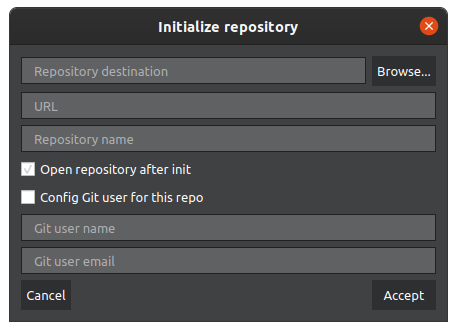
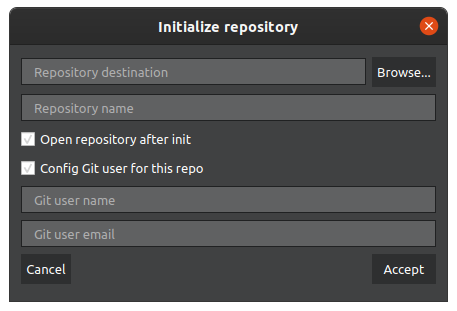
#49 Updating quick control actions

diff --git a/src/aux_widgets/CreateRepoDlg.cpp b/src/aux_widgets/CreateRepoDlg.cpp
@@ -18,6 +18,9 @@ CreateRepoDlg::CreateRepoDlg(CreateRepoDlgType type, QSharedPointer<GitConfig> g
 
    ui->setupUi(this);
 
+   if (mType == CreateRepoDlgType::INIT)
+      ui->leURL->setHidden(true);
+
    const auto operation = mType == CreateRepoDlgType::INIT ? QString("init") : QString("clone");
    const auto checkText = ui->chbOpen->text().arg(operation);
    ui->chbOpen->setText(checkText);

diff --git a/docs/index.md b/docs/index.md
@@ -67,11 +67,67 @@ In the GitQlient configuration, the user can change some internal parameters tha
 
 ### Initializing a new repository
 
+To create a new local repository the option *Init new repo* opens a dialog to set all the information that Git needs. This contains:
+
+- Destination of the repository (where it will be stored locally)
+- Repository name: the name of the repository (refers to the folder name of the project)
+
+In addition the Git user can be configured and by checking the checkbox GitQlient will open the repository after it's created.
+
+![GitQlient - Init new repo](/GitQlient/assets/1_init_repo.png "GitQlient - Init new repo")GitQlient - Init new repo
+
 ### Cloning a remote repository
+
+To clone an existing remote repository we have to select the option *Clone new repo*. It will show a dialog that ask for all the necessary data that Git needs to clone a repo. That is:
+
+- Repository destination: where the repository will be stored.
+- URL: The remote URL for the repository.
+- Repository name: it's automatically filled with the repo name from the URL, but can be changed if wanted.
+
+In addition, there are two options after the clone action takes place:
+
+- Checkbox to open the repo in GitQlient.
+- Checkbox to store the user data for this repository.
+
+![GitQlient - Clone repository](/GitQlient/assets/1_clone_repo.png "GitQlient - Clone repository")GitQlient - Clone repository
 
 ### Open an existing repository
 
+If the user wants to open an already cloned repository, the button *Open existing repo" openes the file explorer of the OS to select the folder that contains the repository:
+
+![GitQlient - Open repository](/GitQlient/assets/1_open_repo.png "GitQlient - Open repository")GitQlient - Open repository
+
+In addition to this, the user can select any of the projects listed in the *Most used repos* list or in the *Recent repos" list:
+
+![GitQlient - Open repository](/GitQlient/assets/1_open_repo_2.png "GitQlient - Open repository")GitQlient - Open repository
+
 ## Quick access actions
+
+Once we have selected and opened our repo, the new view shows in first place a series of controls to manage the most used actions done in Git. This controls are organized horizontally as sqaured buttons as the following image shows:
+
+![GitQlient - Quick access actions](/GitQlient/assets/2_quick_access_actions.png "GitQlient - Quick access actions")GitQlient - Quick access actions
+
+The first three buttons reference the different views of GitQlient. They allow you to navigate GitQlient in a simple and easy way. The button changes its color when the view it refers is being dispayed:
+
+- View: This is the main view and shows the tree view, information about the commits, the WIP, branches, tags, stashes and submodules.
+- Diff: This options is disabled by default and is only active when a diff is opened. When active, it shows the opened diffs we have.
+- Blame: The blame option shows the view there you can see the commit history of any file, the blame for each selected file and a view of the files in the current repository folder.
+
+After that, we can see the main three Git commands we will use. These are placed here to make you easier to sync the data between the remote and the local repository. Some buttons have an arrow that indicates that they have several options. Press the arrow to select the desired Git command:
+
+- Pull: By default, it performs a Git Pull command. When the dropdown menu is pressed we can find other options:
+
+![GitQlient - Pull options](/GitQlient/assets/2_pull_options.png "GitQlient - Pull options")GitQlient - Pull options
+
+- Push: It performs the regular push (not *forced*) command.
+- Stash: It does not have a default command. Instead you have to press the dropdown menu to see the different options:
+
+![GitQlient - Stash options](/GitQlient/assets/2_stash_options.png "GitQlient - Stash options")GitQlient - Stash options
+
+- Refresh: This option performs a deep refresh of the repository cache. It reloads cache, views and branches information. This is quite costly so have it on mind when you trigger it. It's usually helpful to use when you have performed Git actions outside GitQlient.
+- Config: The last option opens the repository config dialog. For now, it shows the user data for the current repository:
+
+![GitQlient - Repository config](/GitQlient/assets/2_repo_config.png "GitQlient - Repository config")GitQlient - Repository config
 
 ## <a name="the-three-view"></a>The Tree View
 
